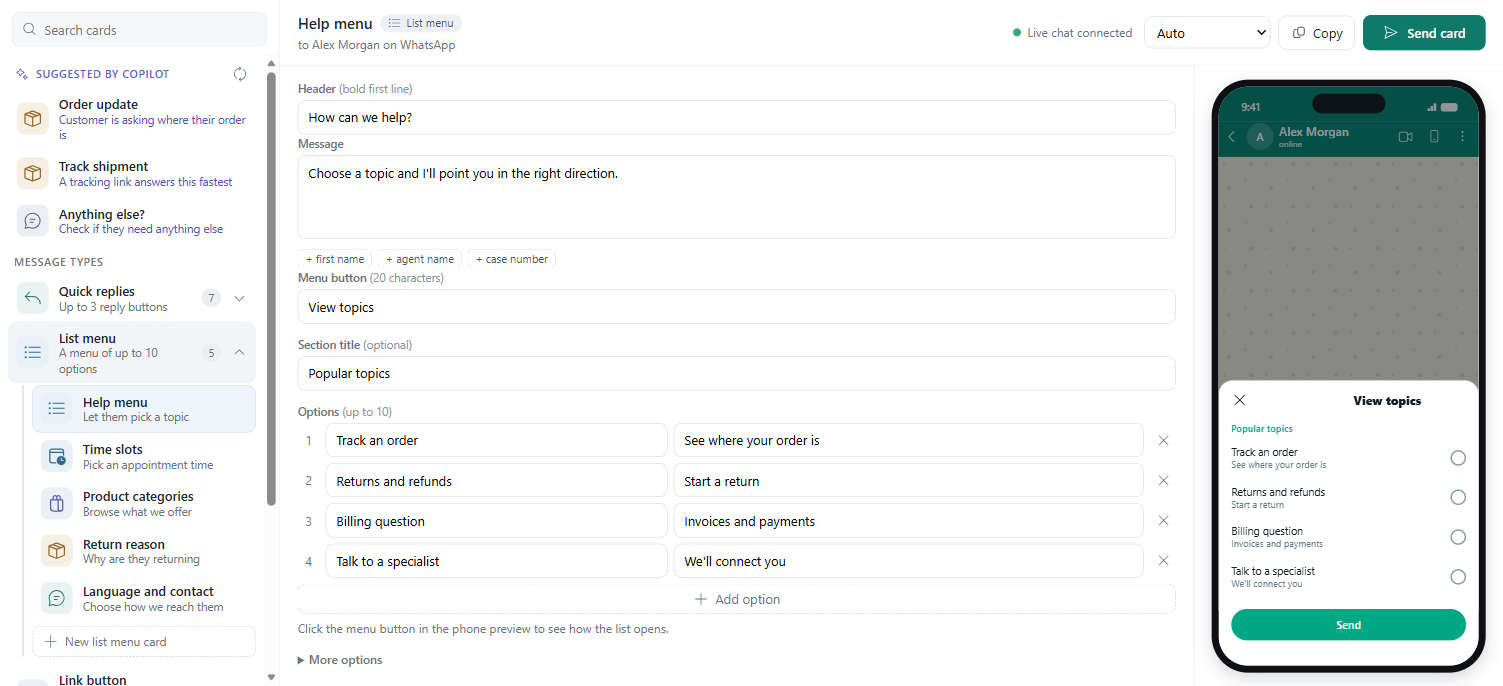
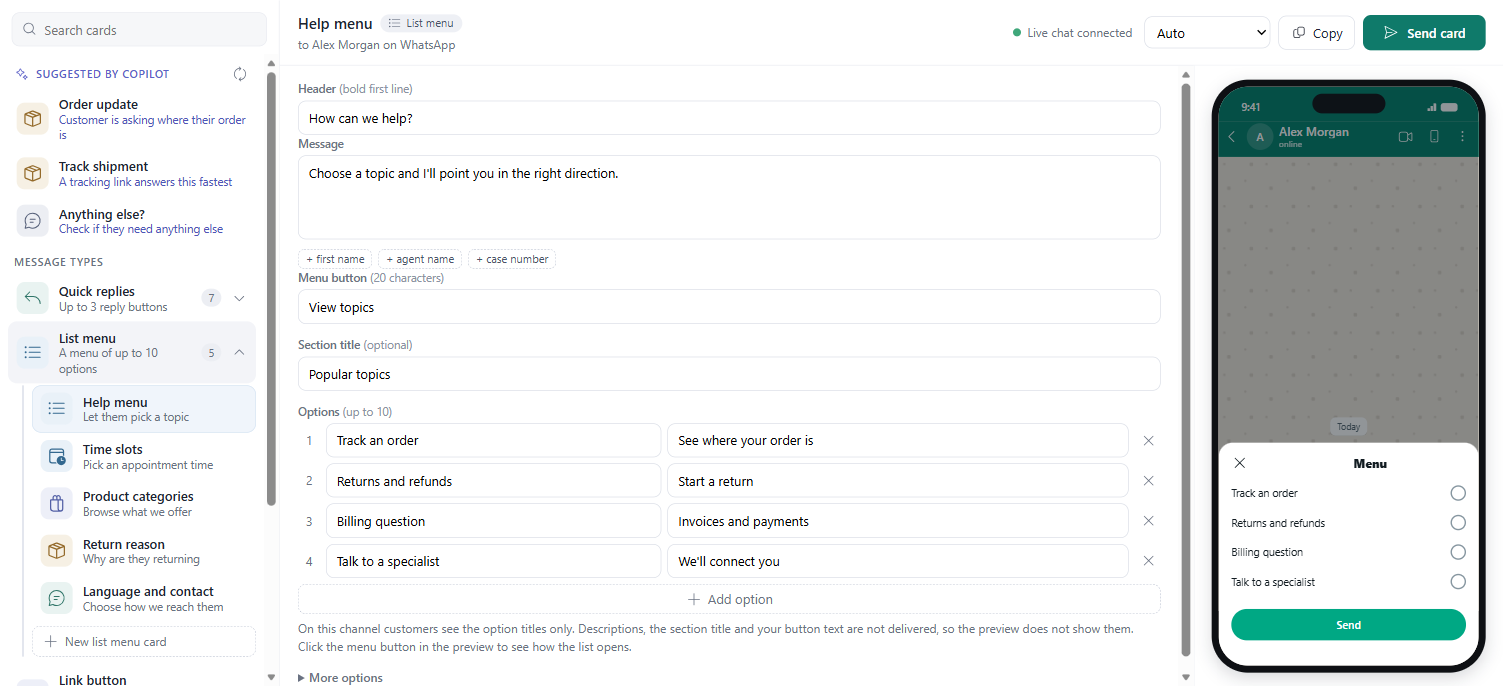
Align the README, the preview and the gaps doc with what was verified on a phone
- README: say plainly that there is no location request and no location pins, add a column for what is confirmed on a phone, fix the card count (34), soften the preview claim
- Preview: list menus show option titles only, as the channel delivers them
- KNOWN-GAPS: correct the number of location formats tested, word the list limit accurately, add a verification status table
- Version 1.0.1

diff --git a/src/cards.html b/src/cards.html
@@ -659,7 +659,7 @@ function renderEditor(){
     h+=`<label>Section title <em>(optional)</em></label>`+inp("list.section",c.list.section,"Popular topics",24);
     h+=`<label>Options <em>(up to 10)</em></label><div class="rows">`+c.list.rows.map((r,i)=>row(`<span class="n">${i+1}</span>${inp("list.rows."+i+".t",r.t,"Title",24)}${inp("list.rows."+i+".d",r.d,"Description (optional)",72,"w2")}<button class="x" data-act="delRow" data-i="${i}" title="Remove">${ic("dismiss",16)}</button>`)).join("")+`</div>`;
     if(c.list.rows.length<10)h+=`<button class="add" data-act="addRow">${ic("add",16)}Add option</button>`;
-    h+=`<div class="note" style="padding:6px 0 0">Click the menu button in the phone preview to see how the list opens.</div>`;
+    h+=`<div class="note" style="padding:6px 0 0">On this channel customers see the option titles only. Descriptions, the section title and your button text are not delivered, so the preview does not show them. Click the menu button in the preview to see how the list opens.</div>`;
   }
   if(t==="carousel"){
     h+=`<label>Cards <em>(2 to 5)</em></label>`+c.items.map((it,i)=>`<div class="ccard"><div class="ch">${ic("image",16)}<span>Card ${i+1}</span>${c.items.length>2?`<button class="x" data-act="delCard" data-i="${i}" title="Remove card">${ic("dismiss",16)}</button>`:""}</div>${inp("items."+i+".img",it.img,"Image URL (https, optional)")}${row(inp("items."+i+".title",it.title,"Title",60)) }${row(inp("items."+i+".body",it.body,"Short description",160))}${row(`<span class="ic">${ic("open",16)}</span>${inp("items."+i+".l",it.l,"Button",20)}${inp("items."+i+".v",it.v,"https://",0,"w2")}`)}</div>`).join("");
@@ -717,7 +717,7 @@ function preview(){
   const ol=$("openList");if(ol)ol.onclick=()=>{S.sheet=true;preview()};
   const host=$("sheetHost");
   if(t==="list"&&S.sheet){
-    host.innerHTML=`<div class="shade" id="shade"></div><div class="sheet"><div class="sh"><span id="closeSheet">${ic("dismiss",24)}</span><b style="flex:1">${esc(fill(c.list.button||"Menu"))}</b></div><div class="sl">${c.list.section?`<div class="ss">${esc(fill(c.list.section))}</div>`:""}${c.list.rows.map(r=>`<div class="sr"><div>${esc(fill(r.t))}${r.d?`<small>${esc(fill(r.d))}</small>`:""}</div><i></i></div>`).join("")}</div><div class="sg"><div>Send</div></div></div>`;
+    host.innerHTML=`<div class="shade" id="shade"></div><div class="sheet"><div class="sh"><span id="closeSheet">${ic("dismiss",24)}</span><b style="flex:1">Menu</b></div><div class="sl">${c.list.rows.map(r=>`<div class="sr"><div>${esc(fill(r.t))}</div><i></i></div>`).join("")}</div><div class="sg"><div>Send</div></div></div>`;
     $("shade").onclick=$("closeSheet").onclick=()=>{S.sheet=false;preview()};
   }else host.innerHTML="";
 }

diff --git a/docs/KNOWN-GAPS.md b/docs/KNOWN-GAPS.md
@@ -6,15 +6,31 @@ Findings from testing Card Studio against the first-party WhatsApp channel ("Wha
 
 | # | Gap | Evidence | What Card Studio does instead |
 |---|---|---|---|
-| 1 | **Inbound WhatsApp location pins are not supported.** When a customer shares a location with the + menu, the agent sees only a system error and no coordinates, address or map. | Customer shared a location on 2026-10-29 at 7:37 PM. The Communication Panel showed: `Error: Customer sent an unsupported message type.` (message tag `unsupportedmessagetype`). | The Ask for location card tells customers not to use location pins and asks for a Google or Apple Maps link, or a typed address. Shared links and typed text arrive normally. |
-| 2 | **No native "Send location" request button.** Meta's WhatsApp API has a location request message, but the channel cannot send it. | Five formats were delivered and none produced a button. A Submit action titled "Send location" became a plain reply button, and tapping it only replied with the words "Send location". A location-request payload under channel data, a Meta-style `interactive` object and a full Meta-style payload all arrived as plain text. A sixth format, an `Action.Execute` card, was rejected with `Invalid adaptive card. Adaptive card should have either buttons, openUrl actions, or choice set`. | Ask for location sends a friendly request for a Maps link or typed address, plus reply buttons. |
-| 3 | **Only three interactive shapes are converted:** reply buttons, link (openUrl) buttons and choice lists. | Same rejection message as above. | Card Studio builds every card from those three. |
+| 1 | **Inbound WhatsApp location pins are not supported.** When a customer shares a location with the + menu, the agent sees only a system error and no coordinates, address or map. | A customer shared a location on 2026-10-29 at 7:37 PM. The Communication Panel showed: `Error: Customer sent an unsupported message type.` (message tag `unsupportedmessagetype`). | The Ask for location card tells customers not to use location pins and asks for a Google or Apple Maps link, or a typed address. Shared links and typed text arrive normally. |
+| 2 | **No native "Send location" request button.** Meta's WhatsApp API has a location request message, but the channel did not send one. | Five formats were tried. Four were accepted and none produced a request button: a Submit action titled "Send location" became a plain reply button (tapping it only replied with the words "Send location"); a location-request payload under channel data, a Meta-style `interactive` object and a full Meta-style payload all arrived as plain text. The fifth, an `Action.Execute` card, was rejected with `Invalid adaptive card. Adaptive card should have either buttons, openUrl actions, or choice set`. | Ask for location sends a friendly request for a Maps link or typed address, plus reply buttons. It does not send a location request. |
+| 3 | **Only three interactive shapes are converted:** reply buttons, link (openUrl) buttons and choice lists. | Same rejection message as above. No other shape produced an interactive message in any test. | Card Studio builds every card from those three. |
 | 4 | **Maximum 3 reply buttons.** | Sending 4 buttons failed with `Too many reply buttons: 4. Meta WhatsApp supports a maximum of 3 reply buttons.` | Quick replies are capped at 3. Longer menus use the List menu type. |
-| 5 | **List menus show option titles only.** Option descriptions and section titles are not sent. Whether the configured menu button label appears on the phone is not confirmed. | A list sent as an adaptive card with a compact `Input.ChoiceSet` arrived as a menu on the customer's phone. | The editor lets you write descriptions and a section title and the preview shows them, but customers do not see them. |
-| 6 | **No swipeable carousel and no images inside cards.** A hero-card carousel was delivered as plain text only. An adaptive card with an image arrived with its text and button but the photo was dropped. A web image link attached as an image was also dropped. | Tests [C1], [C2], [I1] and [I2] on 2026-10-29, checked on the customer's phone. | A carousel is sent as a sequence: intro text, then for each item a photo (uploaded through the chat panel's file attach) followed by a card with title, description and link button. Photos are re-encoded as standard JPEG first, because some originals were rejected with `Failed to download ACS Attachment ... Unsupported media type`. |
-| 7 | **Native map pin messages are not supported.** | Place and geo-location payloads arrived as plain text. | Share a place sends the name and address with an "Open in Maps" link button, which arrives as a real tappable button. |
+| 5 | **List menus built from a choice set carry option titles only.** Option descriptions, the section title and the menu button text are not delivered. Whether the customer sees the configured button text is not confirmed. | A list sent as an adaptive card with a compact `Input.ChoiceSet` arrived as a menu on the customer's phone. A choice set has no field for descriptions or sections. No other list payload was tried. | The editor still has the description, section and button fields, with a note, but the phone preview shows only the titles, as delivered. |
+| 6 | **No swipeable carousel and no images inside cards.** A hero-card carousel was delivered as plain text only. An adaptive card with an image arrived with its text and button but the photo was dropped. A web image link attached as an image was also dropped. | Tests [C1], [C2], [I1] and [I2] on 2026-10-29, checked on the customer's phone. | A carousel is sent as a sequence: intro text, then for each item a photo (uploaded through the chat panel's file attach) followed by a card with title, description and link button. Photos are re-encoded as standard JPEG first, because some originals were rejected with `Failed to download ACS Attachment ... Unsupported media type`. **Delivery of the uploaded photos to the customer's phone has not been confirmed.** |
+| 7 | **Native map pin messages are not supported.** | Place and geo-location payloads arrived as plain text. | Share a place sends the name and address with an "Open in Maps" link button, which arrived as a real tappable button in test [P1]. |
+| 8 | **The product's own Rich messages feature does not allow cards or carousels on WhatsApp.** In Copilot Service admin center > Productivity > Rich messages > New, the type list is Apple Pay, Authentication, Cards, Custom JSON, Forms, List Picker, Suggested Reply, Time Picker, Video Rich Link and Website Rich Link. Choosing Cards offers only the channel **Live chat**, and the preview says "Preview for this media type is not supported on this channel". The only WhatsApp rich message in the environment is a Suggested Reply. | Checked on 2026-10-29. Nothing was saved. Custom JSON, List Picker and Time Picker were not checked. | Card Studio sends reply buttons, link buttons and a choice list directly; a carousel is a photo-and-card sequence. |
 
-| 8 | **The product's own Rich messages feature does not allow cards or carousels on WhatsApp.** In Copilot Service admin center > Productivity > Rich messages > New, the type list is Apple Pay, Authentication, Cards, Custom JSON, Forms, List Picker, Suggested Reply, Time Picker, Video Rich Link and Website Rich Link. Choosing Cards offers only the channel **Live chat**, and the preview says "Preview for this media type is not supported on this channel". The only WhatsApp rich message in the environment is a Suggested Reply. | Checked on 2026-10-29. Nothing was saved. Custom JSON, List Picker and Time Picker were not checked. | Card Studio sends reply buttons, link buttons and a choice list directly; a carousel is a photo-and-card sequence. |\n\n## Card Studio limits (our side)
+## Verification status
+
+What was checked on a real phone, and what was not.
+
+| Message type | Confirmed on a phone | Not confirmed |
+|---|---|---|
+| Quick replies | Cards with 1 to 3 reply buttons arrived as WhatsApp reply buttons. Taps came back as messages. | |
+| Link button | A card with a link button (test [C2], and "Open in Maps" in [P1]) arrived as a tappable link button. | |
+| List menu | A menu of option titles arrived and could be opened (test "Pick a topic"). | How the final card looks (header, message and button text). The exact button text the customer sees. |
+| Carousel | The channel drops hero-card carousels and images inside cards (see gap 6). | That the photos in the photo-and-card sequence reach the customer. |
+| Ask for location | Reply buttons arrived (test [L1]). The channel does not send a location request (gap 2). | The final wording with the Maps-link instruction was not sent to a phone. |
+| Share a place | A name and address card with an "Open in Maps" button arrived (test [P1]). | |
+
+The Card Studio preview approximates WhatsApp. For list menus it shows the option titles only, because that is all the channel delivers.
+
+## Card Studio limits (our side)
 
 - **Custom cards and edited descriptions are saved in the browser** (local storage), per user and per browser. They do not follow the user to another machine and are not shared with the team.
 - **Copilot suggestions need an AI Builder prompt** called "Card Studio Suggest" in each environment (`scripts/create-prompt.mjs`). Without it, the app falls back to keyword matching.
@@ -22,9 +38,3 @@ Findings from testing Card Studio against the first-party WhatsApp channel ("Wha
 - **Merge fields** cover first name, agent name and case number only.
 - **Sample cards use placeholder text and example.com links.** Replace them before real use.
 - **The chat connection is found by inspecting the Communication Panel's page.** A product update that changes the chat widget could break sending. Card Studio then falls back to formatted text or copy.
-
-## Confirmed working on the channel
-
-- Quick reply buttons (1 to 3), arriving as WhatsApp reply buttons. Customer taps come back as normal messages.
-- Link buttons ("Open in Maps" style), arriving as WhatsApp link buttons.
-- List menus using a choice set (titles only).

diff --git a/README.md b/README.md
@@ -10,31 +10,34 @@ Out of the box, a human agent in Dynamics 365 Contact Center can send text and f
 
 ## What it looks like
 
-**Pick a message type, then a card, and see exactly how it looks on a phone.** Copilot suggests the best cards for the live conversation at the top of the list. The screenshots use a made-up customer.
+**Pick a message type, then a card, and see how it will look on a phone.** Copilot suggests the best cards for the live conversation at the top of the list. The screenshots use a made-up customer.
 
 ![Card Studio on a WhatsApp conversation: Copilot suggestions, message types and cards on the left, the editor in the middle and a live phone preview on the right](docs/images/card-studio-quick-replies.png)
 
-**List menus open like they do in WhatsApp.** Click the menu button in the preview to see the options sheet.
+**List menus:** click the menu button in the preview to open the options sheet. On this channel customers see the option titles only, so that is all the preview shows.
 
 ![Card Studio showing a Help menu list and the phone preview with the options sheet open](docs/images/card-studio-list-menu.png)
 
-**Carousels become a photo and a card for each item**, using free Pexels photos you can swap for your own.
+**Carousels become a photo and a card for each item**, one after the other, using free Pexels photos you can swap for your own. This channel has no swipeable carousel.
 
 ![Card Studio showing a product carousel with photos, titles and buttons in the phone preview](docs/images/card-studio-carousel.png)
+
 ## What agents get
 
-| Message type | What the customer sees | Sent as |
-|---|---|---|
-| **Quick replies** | Up to 3 tappable reply buttons | Native WhatsApp reply buttons |
-| **List menu** | A menu of up to 10 options | Native WhatsApp list (titles only) |
-| **Link button** | A button that opens a web page | Native WhatsApp link button |
-| **Carousel** | A photo and a card for each item | A short sequence of messages (see limits) |
-| **Ask for location** | A friendly note asking for a Maps link or address | Reply buttons plus text |
-| **Share a place** | Name, address and an Open in Maps button | Native WhatsApp link button |
+| Message type | What the customer gets | Sent as | Confirmed on a phone |
+|---|---|---|---|
+| **Quick replies** | Up to 3 tappable reply buttons | Native WhatsApp reply buttons | Yes |
+| **List menu** | A menu of up to 10 options, **titles only** | Native WhatsApp list | The menu, yes. The final wording and button text, not yet |
+| **Link button** | A button that opens a web page | Native WhatsApp link button | Yes |
+| **Carousel** | A photo and a card for each item, one after the other. **Not swipeable** | A short sequence of messages | The cards, yes. The photos reaching the customer, not yet |
+| **Ask for location** | A note asking for a Google or Apple Maps link or a typed address, with reply buttons. **It is not a location request**: this channel cannot send one and cannot receive location pins | Reply buttons plus text | The reply buttons, yes. The final wording, not yet |
+| **Share a place** | Name, address and an Open in Maps button | Native WhatsApp link button | Yes |
 
-- **30 ready-made cards** across those six types, each with a plain-English description of when to use it.
+See [Verification status](docs/KNOWN-GAPS.md#verification-status) for what was and was not checked.
+
+- **34 ready-made cards** across those six types, each with a plain-English description of when to use it.
 - **Message types drive the navigation.** Pick a type on the left, then one of its cards.
-- **Live phone preview** that mirrors how WhatsApp renders each message.
+- **Live phone preview** that approximates how WhatsApp shows each message, limited to what this channel delivers.
 - **Copilot suggestions** that read the live conversation and pick the best cards, refreshing as the chat moves on.
 - **Merge fields** for the customer's first name, the agent's name and the case.
 - **Your own cards:** edit any card, then save it as a new one. The internal description is never sent to customers.
@@ -44,9 +47,10 @@ Out of the box, a human agent in Dynamics 365 Contact Center can send text and f
 
 The first-party WhatsApp channel only converts three kinds of interactive content: **reply buttons (maximum 3), link buttons and choice lists**. Everything else is dropped or shown as text. These limits come from the channel, not from this add-on, and were tested on a real phone. The full list with evidence is in **[docs/KNOWN-GAPS.md](docs/KNOWN-GAPS.md)**. The main ones:
 
-- **No swipeable carousel** and **no images inside cards.** Carousels are sent as photo messages followed by a card with the title, description and link.
-- **No native "Send location" button**, and **customers' location pins arrive as "unsupported message type"** in the agent's panel. The Ask for location card asks for a Maps link or typed address instead.
-- List menus show option titles only.
+- **No swipeable carousel** and **no images inside cards.** A carousel is sent as photo messages, each followed by a card with the title, description and link. That the photos reach the customer has not been confirmed on a phone yet.
+- **No location request and no location pins.** The channel cannot send WhatsApp's "Send location" button, and a location pin shared by a customer shows up for the agent only as "Customer sent an unsupported message type", with no map or address. The Ask for location card asks for a Google or Apple Maps link or a typed address instead.
+- **List menus carry option titles only.** Descriptions, the section title and the menu button text are not delivered.
+- **The product's own Rich messages feature** (Copilot Service admin center) offers no cards or carousels for WhatsApp either.
 - Custom cards and edited descriptions are saved in the agent's browser, not shared with the team.
 
 ## Requirements
@@ -185,7 +189,7 @@ The installer is safe to run twice. It checks the environment, imports the manag
 
 ### Option 3. Import the solution yourself
 
-1. Download `WhatsAppCardStudio_1.0.0_managed.zip` from the [latest release](../../releases/latest).
+1. Download `WhatsAppCardStudio_1.0.1_managed.zip` from the [latest release](../../releases/latest).
 2. In the Power Apps maker portal, open **Solutions > Import solution** and import it.
 3. Add the tab to your forms: `node scripts/add-to-forms.mjs --org https://yourorg.crm.dynamics.com`, or add a new tab with a web resource control pointing at `wacs_/cards.html` on the conversation form.
 4. Optional: create the suggestion prompt with `node scripts/create-prompt.mjs --org https://yourorg.crm.dynamics.com`.
